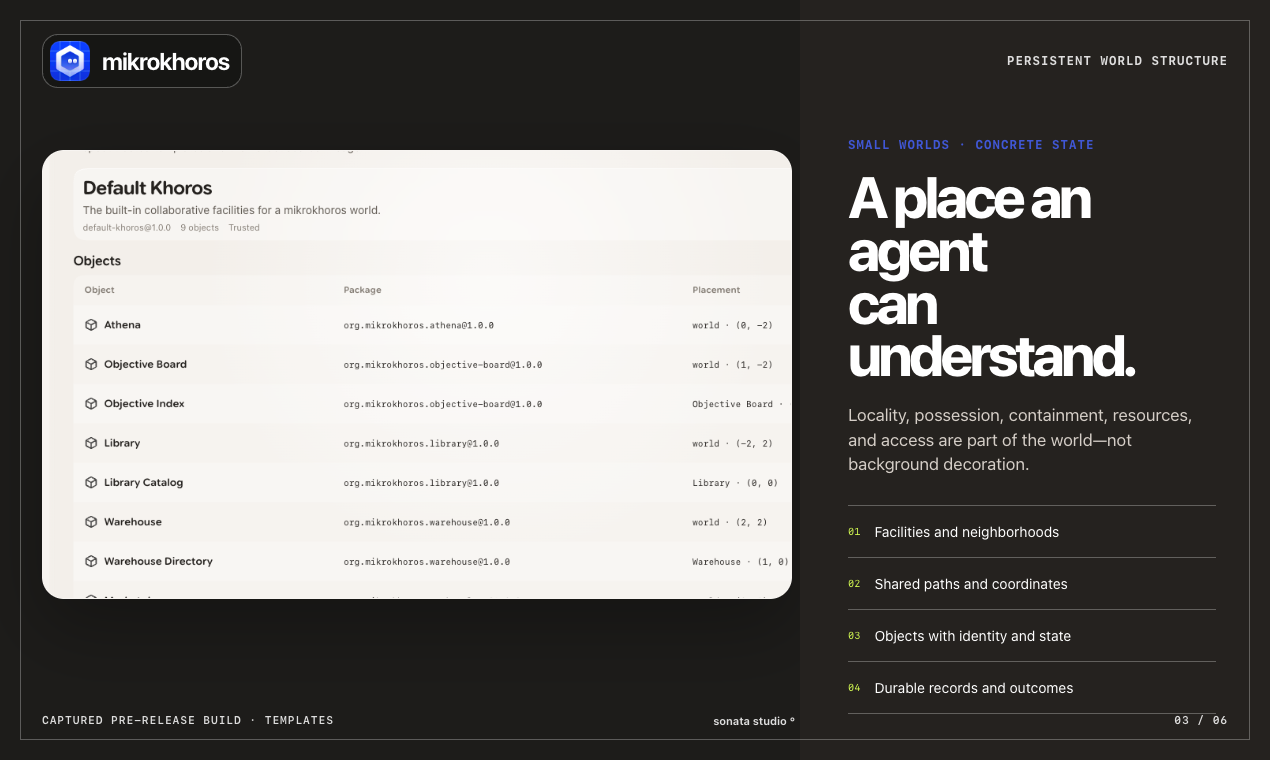
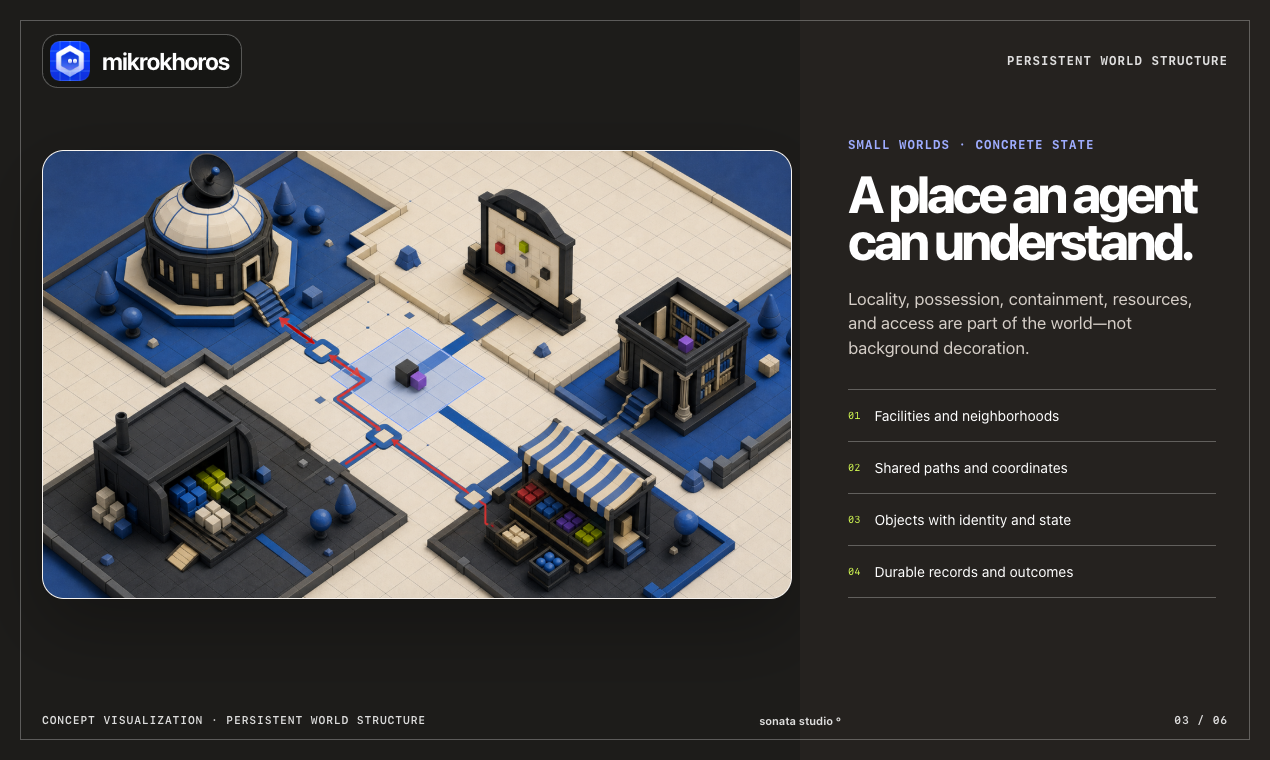
Replace gallery world visual

diff --git a/marketing/product-hunt/index.html b/marketing/product-hunt/index.html
@@ -129,8 +129,8 @@
 
         <figure class="world-figure">
           <img
-            src="./captures/runtime-templates.png"
-            alt="Captured mikrokhoros Web Templates view showing the trusted default-khoros template, nine object placements, packages, and coordinates"
+            src="./assets/persistent-world-visual.png"
+            alt="Conceptual visualization of a mikrokhoros persistent object world with one agent, five connected facilities, bounded perception, contained resources, and a replay trajectory"
           />
         </figure>
 
@@ -150,7 +150,7 @@
         </section>
 
         <footer class="frame-footer frame-footer--over-image">
-          <span>CAPTURED PRE-RELEASE BUILD · TEMPLATES</span>
+          <span>CONCEPT VISUALIZATION · PERSISTENT WORLD STRUCTURE</span>
           <span class="studio-signature">sonata studio °</span>
           <span>03 / 06</span>
         </footer>

diff --git a/marketing/product-hunt/styles.css b/marketing/product-hunt/styles.css
@@ -10,6 +10,7 @@
   --blue: #4057d6;
   --blue-bright: #246bfe;
   --blue-soft: #e4e8ff;
+  --blue-on-dark: #9eacff;
   --lime: #d7ff52;
   --sans: -apple-system, BlinkMacSystemFont, "Segoe UI", Helvetica, Arial, sans-serif;
   --mono: ui-monospace, "SFMono-Regular", "Cascadia Mono", "Segoe UI Mono", Consolas, monospace;
@@ -377,8 +378,7 @@ h1 {
   width: 100%;
   height: 100%;
   object-fit: cover;
-  transform: scale(1.34);
-  transform-origin: 72% 42%;
+  object-position: center;
 }
 
 .world-copy {
@@ -394,7 +394,11 @@ h1 {
 
 .world-copy h1 {
   margin-top: 18px;
-  font-size: 58px;
+  font-size: 52px;
+}
+
+.frame--world .eyebrow {
+  color: var(--blue-on-dark);
 }
 
 .world-copy > p:not(.eyebrow) {

diff --git a/marketing/product-hunt/README.md b/marketing/product-hunt/README.md
@@ -9,7 +9,7 @@ This folder owns the HTML source and review PNGs for the `mikrokhoros` Product H
 - Product facts: [`../../docs/public-facts.json`](../../docs/public-facts.json).
 - Product behavior: [`../../README.md`](../../README.md) and [`../../docs/design.md`](../../docs/design.md).
 - Approved brand asset: the checksum-pinned product icon in the public fact sheet.
-- Product imagery: three checksum-pinned captures from the running native `khoros` product.
+- Product imagery: two checksum-pinned captures from the running native `khoros` product and one checksum-pinned conceptual world-model visualization.
 - Current implementation branch baseline: `bdf247be974ded9e97c3380dbfb2eb646503d960`.
 
 Every frame is local-only HTML/CSS. It has no remote font, remote image, analytics, form, cookie, or network dependency.
@@ -18,12 +18,12 @@ Every frame is local-only HTML/CSS. It has no remote font, remote image, analyti
 
 1. **Actions become consequences.** A standalone product promise with the initialized `default-khoros` World view.
 2. **Agents act. Worlds answer.** The observation-to-consequence loop.
-3. **A place an agent can understand.** The live trusted-template view shows packages, placements, and coordinates.
+3. **A place an agent can understand.** A purpose-built world-model visualization shows locality, bounded perception, connected facilities, contained resources, object identity, and a replayable trajectory.
 4. **Objects are first-class.** Object SDK → package → Inventory → world-object lifecycle.
 5. **Full CLI. Local Web.** The command surface sits beside a captured World object interaction from the same native runtime.
 6. **Open source. Free to use.** Apache-2.0, supported platforms, repository, and first local commands.
 
-Frames 1, 3, and 5 identify their imagery as captured pre-release product output. The frame 5 command block is explicitly scoped to macOS and Linux; Windows installation remains the documented PowerShell path.
+Frames 1 and 5 identify their imagery as captured pre-release product output. Frame 3 identifies its image as a conceptual visualization reviewed against the implemented persistent-world model. The frame 5 command block is explicitly scoped to macOS and Linux; Windows installation remains the documented PowerShell path.
 
 ## Runtime capture provenance
 
@@ -36,6 +36,13 @@ Frames 1, 3, and 5 identify their imagery as captured pre-release product output
 - Provider calls: none.
 
 The captured state contains one unprofiled local agent, five canonical Inventory sources, and the `default-khoros` world template. The launch token, filesystem path, and generated runtime identifiers are not part of the gallery copy.
+
+## Concept-visual provenance
+
+- Purpose: communicate the implemented persistent-world structure at gallery scale.
+- Source authority: the canonical public fact sheet, product README, runtime design, and `default-khoros` facility layout.
+- Method: AI-assisted conceptual visualization with no third-party source artwork.
+- Review boundary: the image is illustrative evidence of product concepts, not a product screenshot, hosted world, stable release, or runtime output.
 
 ## Render
 
